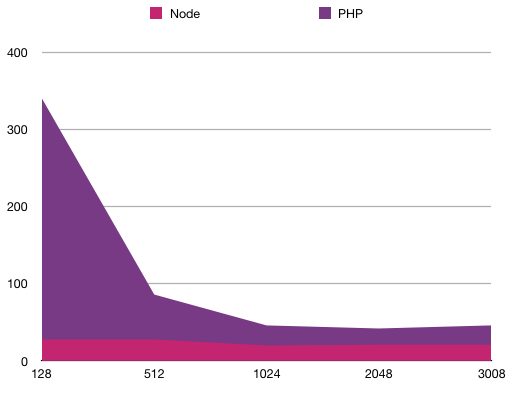
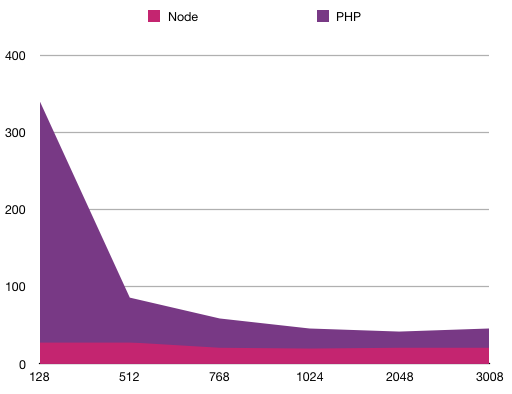
Add a 768M test

diff --git a/README.md b/README.md
@@ -1,4 +1,4 @@
-Benchmark for Bref and AWS Lambda.
+Benchmark for [Bref](https://github.com/mnapoli/bref) and AWS Lambda.
 
 ## Results
 
@@ -10,6 +10,7 @@ I run the test 3 times for each combination and I keep the lowest one. When in d
 |--------|-------------|------------|
 | 128M   |        28ms |      340ms |
 | 512M   |        28ms |       86ms |
+| 768M   |        21ms |       59ms |
 | 1024M  |        20ms |       46ms |
 | 2048M  |        21ms |       42ms |
 | 3008M  |        21ms |       46ms |
